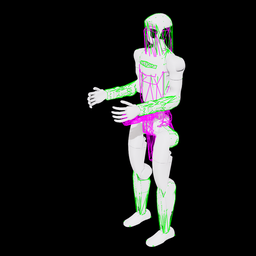
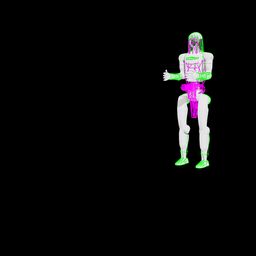
feet col

Changed region(s): [[0.3438, 0.0312, 0.8438, 0.9688]]

diff --git a/active_adaptation/envs/mdp/observations.py b/active_adaptation/envs/mdp/observations.py
@@ -2,6 +2,7 @@ import torch
 import numpy as np
 import abc
 import einops
+import inspect
 from typing import Tuple, TYPE_CHECKING, Callable
 
 from isaaclab.utils.math import quat_apply_yaw, quat_mul, quat_inv
@@ -25,6 +26,11 @@ if active_adaptation.get_backend() == "isaac":
 
 
 class Observation:
+    """
+    Base class for all observations.
+    """
+    registry = {}
+
     def __init__(self, env):
         self.env: _Env = env
 
@@ -63,12 +69,17 @@ class Observation:
         """Called at each step **after** simulation, if GUI is enabled"""
         pass
 
-
-def observation_wrapper(func: Callable[[], torch.Tensor]):
-    class ObservationWrapper(Observation):
-        def compute(self):
-            return func()
-    return ObservationWrapper
+    def __init_subclass__(cls) -> None:
+        """Put the subclass in the global registry"""
+        cls_name = cls.__name__
+        cls._file = inspect.getfile(cls)
+        cls._line = inspect.getsourcelines(cls)[1]
+        if cls_name not in Observation.registry:
+            Observation.registry[cls_name] = cls    
+        else:
+            conflicting_cls = Observation.registry[cls_name]
+            location = f"{conflicting_cls._file}:{conflicting_cls._line}"
+            raise ValueError(f"Observation {cls_name} already registered in {location}")
 
 
 
@@ -887,23 +898,6 @@ class body_momentum(Observation):
         return momentum.reshape(self.num_envs, -1)
 
 
-class body_height(Observation):
-    def __init__(self, env, body_names=".*", nomial_height=0.3):
-        super().__init__(env)
-        self.nominal_height = nomial_height
-        self.asset: Articulation = self.env.scene["robot"]
-        self.body_ids, self.body_names = self.asset.find_bodies(body_names)
-        self.num_feet = len(self.body_ids)
-    
-    def compute(self) -> torch.Tensor:
-        body_pos_w = self.asset.data.body_pos_w[:, self.body_ids]
-        body_height = body_pos_w[:, :, 2] / self.nominal_height
-        return body_height.reshape(self.num_envs, -1)
-    
-    def symmetry_transforms(self):
-        return sym_utils.cartesian_space_symmetry(self.asset, self.body_names, (1,))
-
-
 class feet_height_map(Observation):
     def __init__(
         self, 
@@ -1651,8 +1645,8 @@ class body_height(Observation):
         self.body_ids = torch.as_tensor(self.body_ids, device=self.device)
     
     def compute(self):
-        body_pos_w = self.asset.data.body_pos_w[:, self.body_ids, 2]
-        body_height = body_pos_w - self.env.get_ground_height_at(body_pos_w)
+        body_pos_w = self.asset.data.body_pos_w[:, self.body_ids]
+        body_height = body_pos_w[:, :, 2] - self.env.get_ground_height_at(body_pos_w)
         return body_height.reshape(self.num_envs, -1)
 
     def symmetry_transforms(self):

diff --git a/active_adaptation/envs/base.py b/active_adaptation/envs/base.py
@@ -132,8 +132,6 @@ class _Env(EnvBase):
 
         RAND_FUNCS = mdp.RAND_FUNCS
         RAND_FUNCS.update(mdp.get_obj_by_class(members, mdp.Randomization))
-        OBS_FUNCS = mdp.OBS_FUNCS
-        OBS_FUNCS.update(mdp.get_obj_by_class(members, mdp.Observation))
         REW_FUNCS = mdp.REW_FUNCS
         REW_FUNCS.update(mdp.get_obj_by_class(members, mdp.Reward))
         TERM_FUNCS = mdp.TERM_FUNCS
@@ -142,8 +140,6 @@ class _Env(EnvBase):
         for k, v in inspect.getmembers(self.command_manager):
             if getattr(v, "is_reward", False):
                 REW_FUNCS[k] = mdp.reward_wrapper(v)
-            elif getattr(v, "is_observation", False):
-                OBS_FUNCS[k] = mdp.observation_wrapper(v)
             elif getattr(v, "is_termination", False):
                 TERM_FUNCS[k] = mdp.termination_wrapper(v)
 
@@ -198,7 +194,8 @@ class _Env(EnvBase):
                 raise NotImplementedError
             funcs = OrderedDict()            
             for key, kwargs in params.items():
-                obs = OBS_FUNCS[key](self, **(kwargs if kwargs is not None else {}))
+                obs_cls= mdp.Observation.registry[key]
+                obs = obs_cls(self, **(kwargs if kwargs is not None else {}))
                 funcs[key] = obs
 
                 self._startup_callbacks.append(obs.startup)
@@ -433,7 +430,7 @@ class _Env(EnvBase):
             assert not ray_distance.isnan().any()
             return ray_distance.reshape(*bshape)
         elif self.backend == "mujoco":
-            return pos[..., 2, None]
+            return pos[..., 2]
     
     def _set_seed(self, seed: int = -1):
         # import omni.replicator.core as rep

diff --git a/active_adaptation/assets/humanoid.py b/active_adaptation/assets/humanoid.py
@@ -382,7 +382,7 @@ G1_WAIST_UNLOCKED_CFG = ArticulationCfg( # no wrist pitch and yaw
         ),
     ),
     init_state=ArticulationCfg.InitialStateCfg(
-        pos=(0.0, 0.0, 0.74),
+        pos=(0.0, 0.0, 0.80),
         joint_pos={
             ".*_hip_pitch_joint": -0.28,
             ".*_knee_joint": 0.5,

diff --git a/active_adaptation/__init__.py b/active_adaptation/__init__.py
@@ -1,5 +1,5 @@
 import os
-from active_adaptation.learning import ALGOS
+import active_adaptation.learning
 
 _BACKEND = "isaac"
 
